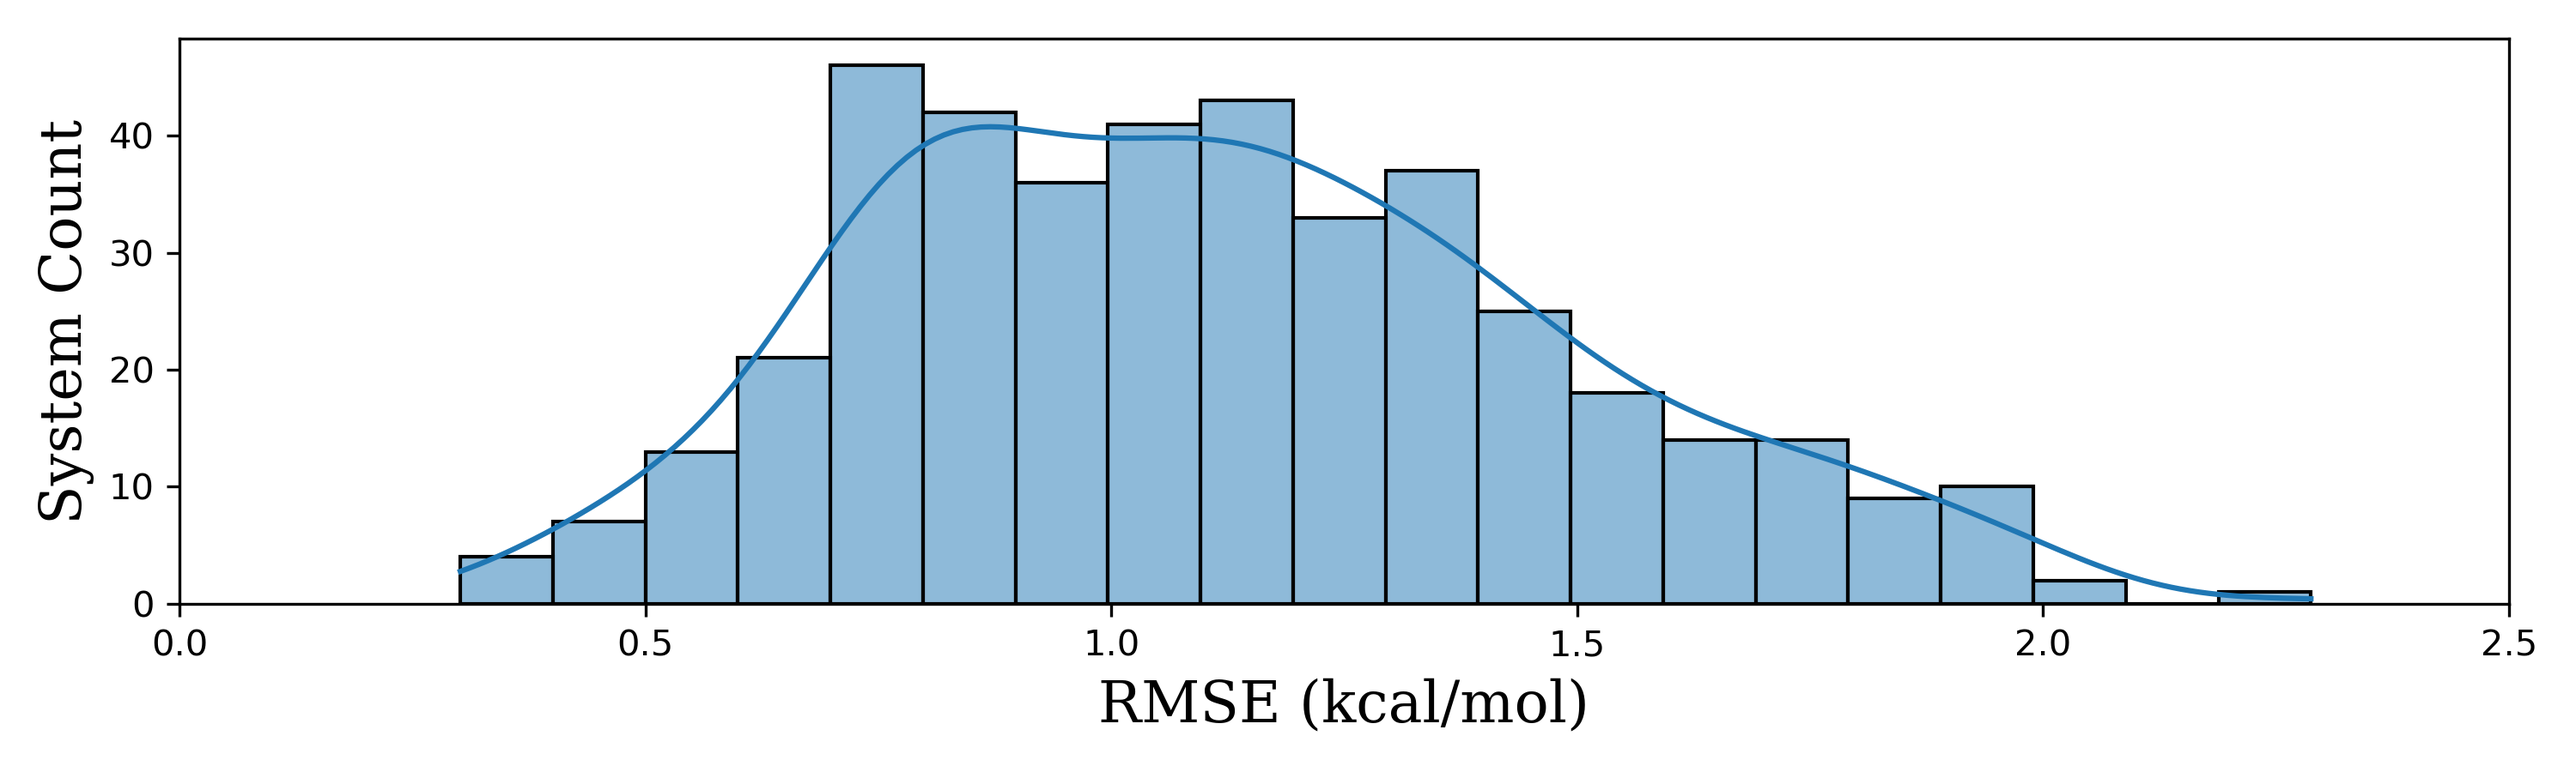
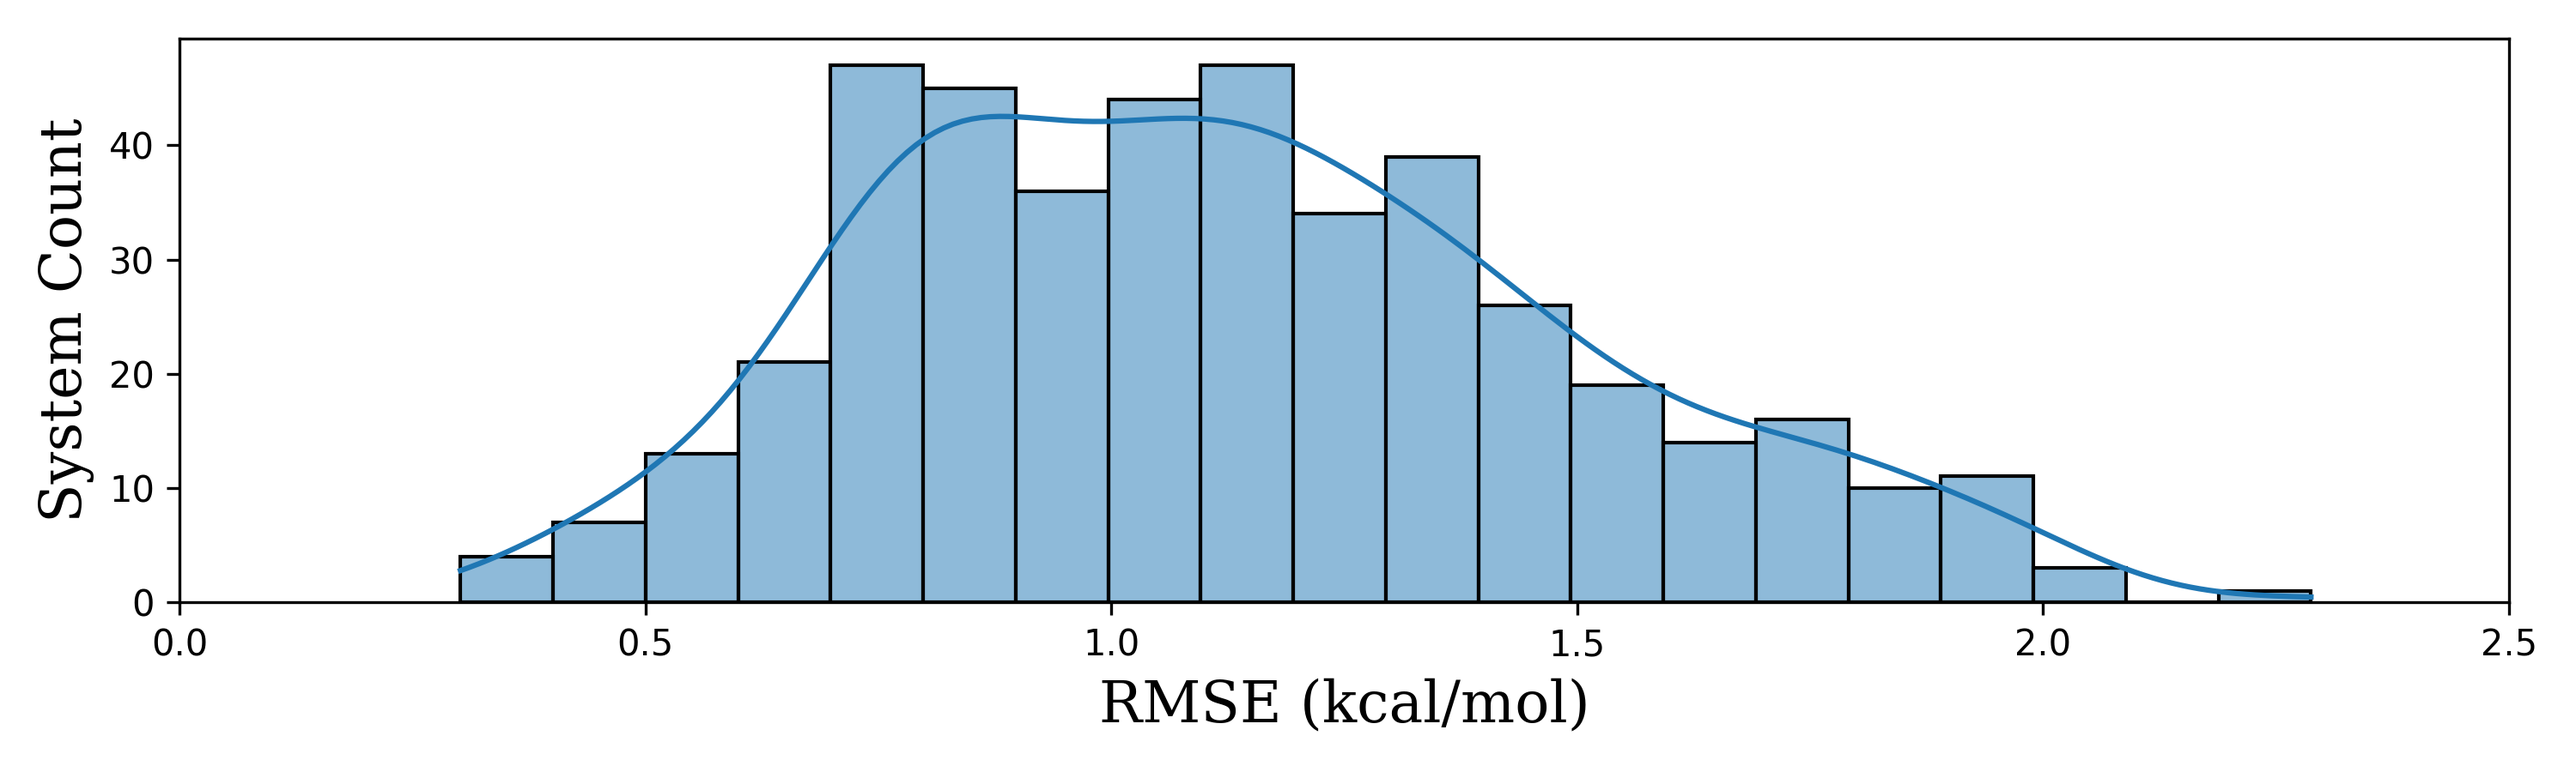
update README.md

diff --git a/README.md b/README.md
@@ -34,8 +34,8 @@ For more details, please refer to our [FEP Open Challenge introduction](https://
 
 
 ## Summary of Benchmark Results
-**Total Systems**: 416  
-**Total Ligands**: 7445
+**Total Systems**: 437  
+**Total Ligands**: 8206
 ![RMSE Distribution](rmse_distribution.png)
 ![Kendall's tau Distribution](tau_distribution.png)
 | Series | Target | N_Ligands | RMSE (kcal/mol) | R² | Kendall's tau | Description |
@@ -59,6 +59,7 @@ For more details, please refer to our [FEP Open Challenge introduction](https://
 | ChEMBL | BACE1 | 9 | 1.23 | 0.54 | 0.50 | CHEMBL2183861 |
 | ChEMBL | BACE1 | 23 | 0.85 | 0.33 | 0.39 | CHEMBL2185271 |
 | ChEMBL | BACE1 | 10 | 0.96 | 0.89 | 0.91 | CHEMBL2352381 |
+| ChEMBL | BACE1 | 36 | 0.89 | 0.22 | 0.32 | CHEMBL2353183 |
 | ChEMBL | BACE1 | 17 | 1.38 | 0.25 | 0.29 | CHEMBL2384472 |
 | ChEMBL | BACE1 | 23 | 1.11 | 0.19 | 0.34 | CHEMBL2404725 |
 | ChEMBL | BACE1 | 15 | 1.29 | 0.58 | 0.73 | CHEMBL3635177 |
@@ -69,6 +70,8 @@ For more details, please refer to our [FEP Open Challenge introduction](https://
 | ChEMBL | BACE1 | 16 | 0.65 | 0.51 | 0.72 | CHEMBL5055929 |
 | ChEMBL | BCAT2 | 24 | 1.82 | 0.34 | 0.53 | CHEMBL3812805 |
 | ChEMBL | BCL2L1 | 16 | 0.69 | 0.61 | 0.70 | CHEMBL859053 |
+| ChEMBL | BRAF | 34 | 1.99 | 0.43 | 0.49 | CHEMBL1008210 |
+| ChEMBL | BRAF | 36 | 1.34 | 0.43 | 0.45 | CHEMBL4841804 |
 | ChEMBL | BRD2 | 26 | 0.88 | 0.75 | 0.30 | CHEMBL3382827 |
 | ChEMBL | BRD4 | 12 | 0.48 | 0.77 | 0.34 | CHEMBL2183681 |
 | ChEMBL | BRD4 | 18 | 1.20 | 0.47 | 0.37 | CHEMBL2433086 |
@@ -154,6 +157,7 @@ For more details, please refer to our [FEP Open Challenge introduction](https://
 | ChEMBL | EHMT2 | 18 | 1.12 | 0.19 | 0.28 | CHEMBL4728050 |
 | ChEMBL | EIF2AK3 | 12 | 1.17 | 0.65 | 0.60 | CHEMBL2444392 |
 | ChEMBL | EPHX2 | 23 | 1.94 | 0.34 | 0.53 | CHEMBL1058191 |
+| ChEMBL | EPHX2 | 35 | 1.33 | 0.52 | 0.57 | CHEMBL1074708 |
 | ChEMBL | EPHX2 | 27 | 1.08 | 0.59 | 0.66 | CHEMBL2393704 |
 | ChEMBL | EPHX2 | 31 | 0.76 | 0.49 | 0.41 | CHEMBL3361515 |
 | ChEMBL | ERN1 | 20 | 1.57 | 0.50 | 0.61 | CHEMBL4673066 |
@@ -177,6 +181,8 @@ For more details, please refer to our [FEP Open Challenge introduction](https://
 | ChEMBL | F10 | 4 | 0.56 | 0.55 | 0.33 | CHEMBL661801 |
 | ChEMBL | F10 | 15 | 0.79 | 0.34 | 0.28 | CHEMBL662878 |
 | ChEMBL | F10 | 18 | 0.80 | 0.22 | 0.41 | CHEMBL827928 |
+| ChEMBL | F10 | 36 | 1.11 | 0.20 | 0.28 | CHEMBL889317 |
+| ChEMBL | F10 | 36 | 1.84 | 0.37 | 0.32 | CHEMBL900663 |
 | ChEMBL | F10 | 9 | 0.75 | 0.72 | 0.56 | CHEMBL906423 |
 | ChEMBL | F11 | 25 | 1.15 | 0.56 | 0.58 | CHEMBL3129742 |
 | ChEMBL | F2 | 16 | 0.84 | 0.65 | 0.58 | CHEMBL1067528 |
@@ -190,6 +196,7 @@ For more details, please refer to our [FEP Open Challenge introduction](https://
 | ChEMBL | F2 | 17 | 0.82 | 0.24 | 0.41 | CHEMBL934691 |
 | ChEMBL | F7 | 16 | 1.35 | 0.62 | 0.64 | CHEMBL1005612 |
 | ChEMBL | F7 | 22 | 1.51 | 0.38 | 0.39 | CHEMBL3129741 |
+| ChEMBL | FABP4 | 35 | 0.86 | 0.39 | 0.53 | CHEMBL3888563 |
 | ChEMBL | FKBP1A | 10 | 0.70 | 0.66 | 0.42 | CHEMBL678145 |
 | ChEMBL | GAK | 21 | 1.11 | 0.63 | 0.56 | CHEMBL4736826 |
 | ChEMBL | GAK | 9 | 0.96 | 0.33 | 0.44 | CHEMBL5217398 |
@@ -210,6 +217,7 @@ For more details, please refer to our [FEP Open Challenge introduction](https://
 | ChEMBL | IGF1R | 9 | 1.08 | 0.38 | 0.54 | CHEMBL1045057 |
 | ChEMBL | IGF1R | 11 | 1.03 | 0.49 | 0.53 | CHEMBL3424980 |
 | ChEMBL | IRAK4 | 19 | 0.84 | 0.50 | 0.58 | CHEMBL4015947 |
+| ChEMBL | IRAK4 | 37 | 1.17 | 0.57 | 0.50 | CHEMBL4047622 |
 | ChEMBL | IRAK4 | 14 | 1.26 | 0.48 | 0.53 | CHEMBL4323523 |
 | ChEMBL | JAK1 | 21 | 0.91 | 0.31 | 0.36 | CHEMBL2160360 |
 | ChEMBL | JAK1 | 21 | 1.55 | 0.29 | 0.38 | CHEMBL2395113 |
@@ -217,7 +225,9 @@ For more details, please refer to our [FEP Open Challenge introduction](https://
 | ChEMBL | JAK1 | 23 | 0.95 | 0.63 | 0.57 | CHEMBL3706193 |
 | ChEMBL | JAK1 | 23 | 0.91 | 0.52 | 0.54 | CHEMBL3784138 |
 | ChEMBL | JAK1 | 14 | 1.37 | 0.32 | 0.23 | CHEMBL4411594 |
+| ChEMBL | JAK1 | 38 | 1.75 | 0.22 | 0.39 | CHEMBL4612619 |
 | ChEMBL | JAK1 | 10 | 0.51 | 0.65 | 0.72 | CHEMBL4620434 |
+| ChEMBL | JAK2 | 37 | 1.04 | 0.47 | 0.50 | CHEMBL1044318 |
 | ChEMBL | JAK2 | 20 | 1.24 | 0.37 | 0.54 | CHEMBL1116984 |
 | ChEMBL | JAK2 | 29 | 0.77 | 0.77 | 0.58 | CHEMBL1685409 |
 | ChEMBL | JAK2 | 13 | 0.69 | 0.47 | 0.40 | CHEMBL2160361 |
@@ -264,6 +274,7 @@ For more details, please refer to our [FEP Open Challenge introduction](https://
 | ChEMBL | MAPK14 | 8 | 0.65 | 0.66 | 0.50 | CHEMBL1101788 |
 | ChEMBL | MAPK14 | 19 | 1.18 | 0.31 | 0.31 | CHEMBL1110043 |
 | ChEMBL | MAPK14 | 21 | 0.83 | 0.52 | 0.49 | CHEMBL1251166 |
+| ChEMBL | MAPK14 | 35 | 0.88 | 0.41 | 0.47 | CHEMBL1769102 |
 | ChEMBL | MAPK14 | 18 | 1.30 | 0.70 | 0.37 | CHEMBL1787752 |
 | ChEMBL | MAPK14 | 17 | 1.36 | 0.26 | 0.40 | CHEMBL1804666 |
 | ChEMBL | MAPK14 | 8 | 0.73 | 0.40 | 0.50 | CHEMBL1805307 |
@@ -272,9 +283,11 @@ For more details, please refer to our [FEP Open Challenge introduction](https://
 | ChEMBL | MAPK14 | 21 | 1.80 | 0.29 | 0.31 | CHEMBL1913342 |
 | ChEMBL | MAPK14 | 11 | 1.47 | 0.45 | 0.70 | CHEMBL2061259 |
 | ChEMBL | MAPK14 | 29 | 0.90 | 0.31 | 0.44 | CHEMBL2317232 |
+| ChEMBL | MAPK14 | 35 | 1.57 | 0.33 | 0.33 | CHEMBL3705800 |
 | ChEMBL | MAPK14 | 17 | 1.79 | 0.39 | 0.53 | CHEMBL732094 |
 | ChEMBL | MAPK14 | 9 | 1.42 | 0.68 | 0.56 | CHEMBL734085 |
 | ChEMBL | MAPK14 | 9 | 1.65 | 0.54 | 0.56 | CHEMBL734088 |
+| ChEMBL | MAPK14 | 35 | 1.17 | 0.28 | 0.31 | CHEMBL859283 |
 | ChEMBL | MAPK14 | 17 | 1.03 | 0.58 | 0.66 | CHEMBL929947 |
 | ChEMBL | MAPK14 | 5 | 0.96 | 0.57 | 0.40 | CHEMBL983811 |
 | ChEMBL | MAPK14 | 13 | 1.93 | 0.33 | 0.41 | CHEMBL997720 |
@@ -298,6 +311,8 @@ For more details, please refer to our [FEP Open Challenge introduction](https://
 | ChEMBL | MMP13 | 31 | 1.25 | 0.69 | 0.57 | CHEMBL3373425 |
 | ChEMBL | MMP13 | 34 | 1.03 | 0.59 | 0.57 | CHEMBL3388707 |
 | ChEMBL | MTAP | 17 | 0.98 | 0.40 | 0.38 | CHEMBL2073357 |
+| ChEMBL | NAMPT | 36 | 1.21 | 0.30 | 0.31 | CHEMBL2396492 |
+| ChEMBL | NAMPT | 38 | 1.01 | 0.42 | 0.53 | CHEMBL4036655 |
 | ChEMBL | NEK2 | 11 | 1.12 | 0.35 | 0.45 | CHEMBL1693342 |
 | ChEMBL | NEK2 | 19 | 1.42 | 0.42 | 0.46 | CHEMBL2044151 |
 | ChEMBL | NR1H2 | 8 | 1.61 | 0.63 | 0.64 | CHEMBL907758 |
@@ -306,8 +321,11 @@ For more details, please refer to our [FEP Open Challenge introduction](https://
 | ChEMBL | NUDT1 | 9 | 1.75 | 0.31 | 0.48 | CHEMBL4673830 |
 | ChEMBL | OGA | 10 | 0.96 | 0.52 | 0.42 | CHEMBL3887929 |
 | ChEMBL | OGA | 31 | 1.95 | 0.20 | 0.33 | CHEMBL4355754 |
+| ChEMBL | PAK4 | 38 | 1.97 | 0.66 | 0.66 | CHEMBL4033368 |
+| ChEMBL | PARP1 | 36 | 1.46 | 0.20 | 0.49 | CHEMBL1010815 |
 | ChEMBL | PARP1 | 28 | 1.68 | 0.61 | 0.54 | CHEMBL1115415 |
 | ChEMBL | PARP2 | 16 | 1.45 | 0.35 | 0.55 | CHEMBL3607347 |
+| ChEMBL | PDE10A | 36 | 0.73 | 0.44 | 0.48 | CHEMBL1780568 |
 | ChEMBL | PDE10A | 28 | 1.06 | 0.47 | 0.56 | CHEMBL1960211 |
 | ChEMBL | PDE10A | 33 | 0.86 | 0.27 | 0.31 | CHEMBL2020845 |
 | ChEMBL | PDE10A | 33 | 0.77 | 0.23 | 0.30 | CHEMBL2071880 |
@@ -379,6 +397,7 @@ For more details, please refer to our [FEP Open Challenge introduction](https://
 | ChEMBL | ROCK2 | 26 | 0.79 | 0.21 | 0.30 | CHEMBL2444040 |
 | ChEMBL | ROCK2 | 12 | 1.14 | 0.38 | 0.39 | CHEMBL4669834 |
 | ChEMBL | RORC | 22 | 1.38 | 0.21 | 0.31 | CHEMBL3270932 |
+| ChEMBL | RORC | 36 | 1.12 | 0.48 | 0.36 | CHEMBL3599133 |
 | ChEMBL | RORC | 22 | 1.23 | 0.33 | 0.32 | CHEMBL4197717 |
 | ChEMBL | RPS6KA3 | 28 | 0.79 | 0.58 | 0.62 | CHEMBL3607765 |
 | ChEMBL | RPS6KA3 | 12 | 0.89 | 0.83 | 0.72 | CHEMBL4266990 |
@@ -397,12 +416,14 @@ For more details, please refer to our [FEP Open Challenge introduction](https://
 | ChEMBL | SYK | 21 | 0.76 | 0.28 | 0.11 | CHEMBL945309 |
 | ChEMBL | TEK | 24 | 1.98 | 0.24 | 0.36 | CHEMBL908503 |
 | ChEMBL | TNKS | 9 | 0.72 | 0.84 | 0.87 | CHEMBL2384487 |
+| ChEMBL | TPH1 | 38 | 1.03 | 0.20 | 0.12 | CHEMBL4001798 |
 | ChEMBL | TRAP1 | 8 | 1.33 | 0.57 | 0.21 | CHEMBL3427925 |
 | ChEMBL | TTBK1 | 20 | 1.71 | 0.26 | 0.25 | CHEMBL5236876 |
 | ChEMBL | TTK | 13 | 1.24 | 0.31 | 0.46 | CHEMBL2383388 |
 | ChEMBL | TTK | 25 | 0.86 | 0.74 | 0.73 | CHEMBL3411333 |
 | ChEMBL | TYMS | 17 | 0.95 | 0.31 | 0.33 | CHEMBL823516 |
 | ChEMBL | USP7 | 12 | 1.22 | 0.28 | 0.00 | CHEMBL5234060 |
+| ChEMBL | WDR5 | 38 | 1.78 | 0.47 | 0.56 | CHEMBL3875502 |
 | ChEMBL | WEE1 | 10 | 1.44 | 0.48 | 0.58 | CHEMBL5230681 |
 | CyclicPeptide | Menin | 16 | 0.90 | 0.46 | 0.50 |  |
 | CyclicPeptide | PCSK9 | 18 | 0.77 | 0.51 | 0.47 |  |
